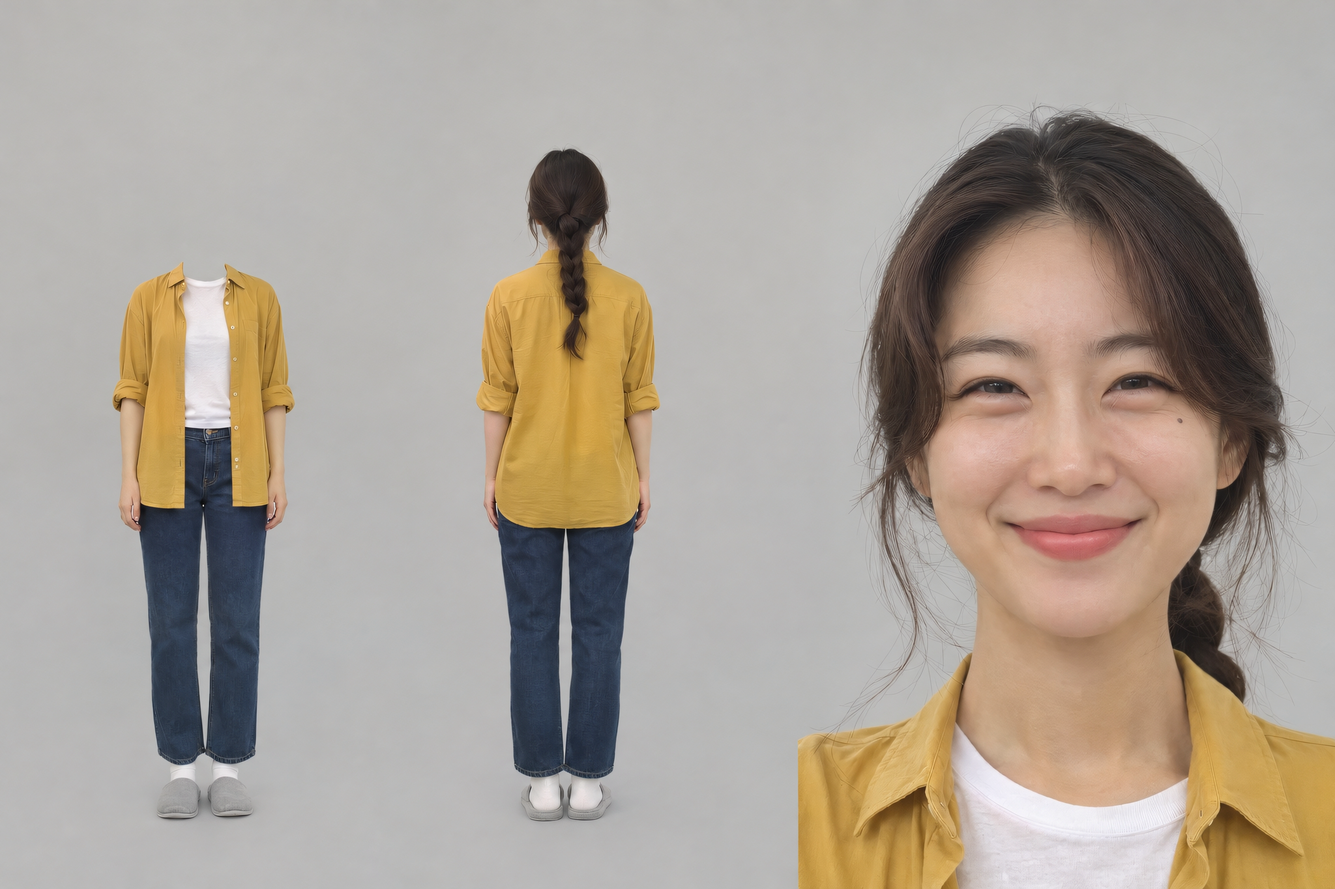
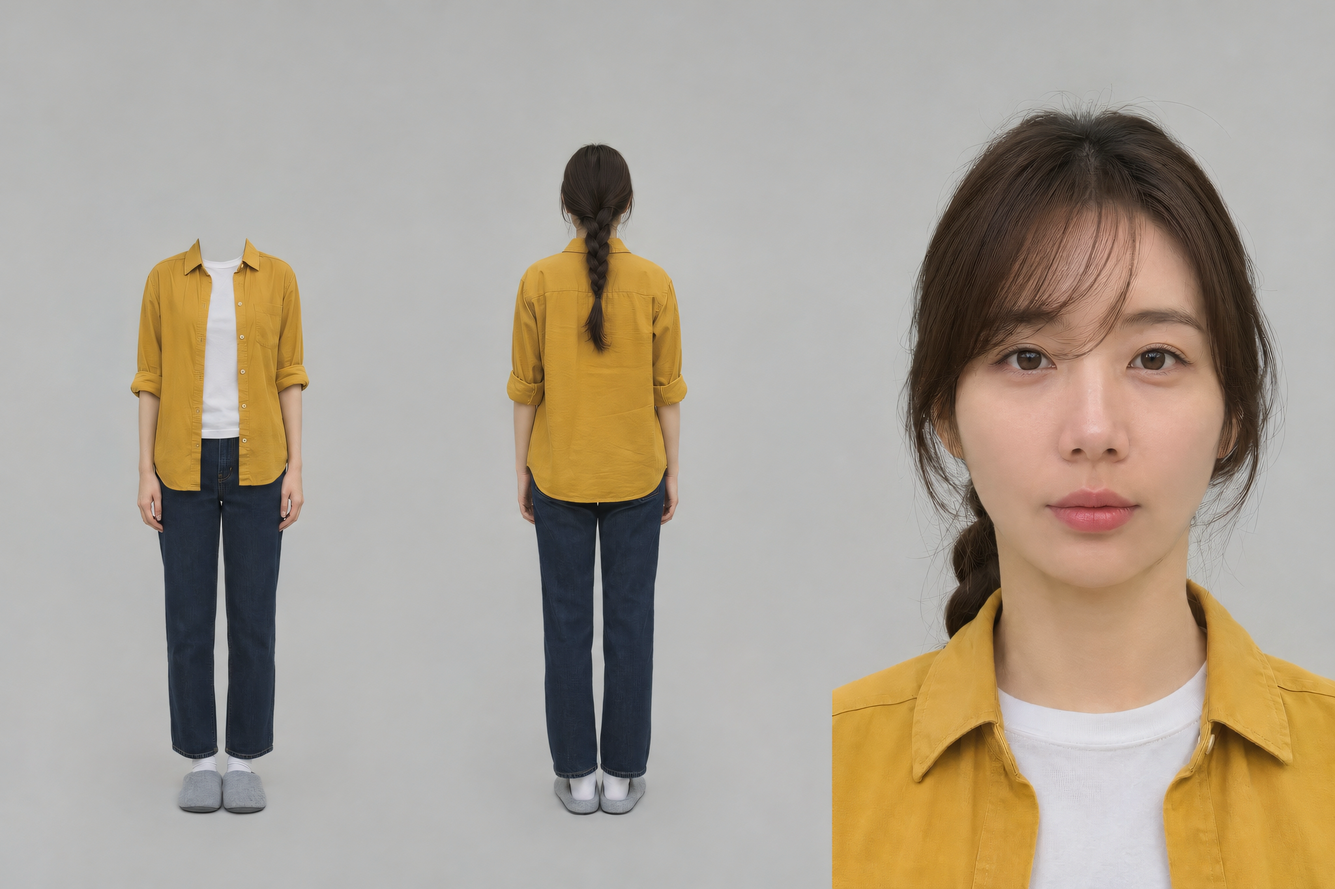
템플릿 시험 — 참기름 인물 앵커 다시(무표정·점 없음)

Changed region(s): [[0.5938, 0.1231, 1.0, 1.0], [0.3438, 0.1538, 0.5312, 0.9231], [0.0625, 0.2769, 0.25, 0.9231]]

diff --git a/admin.html b/admin.html
@@ -9,7 +9,7 @@
 <link rel="preconnect" href="https://fonts.gstatic.com" crossorigin>
 <link rel="stylesheet" href="https://fonts.googleapis.com/css2?family=Gothic+A1:wght@400;500;700;800&family=JetBrains+Mono:wght@400;500;700&display=swap">
 <link rel="stylesheet" href="style.css?v=1f228d76">
-<link rel="stylesheet" href="stage-render.css?v=needs-261116-v605">
+<link rel="stylesheet" href="stage-render.css?v=needs-261116-v606">
 <style>
 /* 관리자 화면 — 훑고 조작하는 곳이라 정보 밀도를 우선한다 */
 
@@ -697,7 +697,7 @@ details.flow-step:has(details.lc-direct[open]) .post-work{display:none}
 .o2-brief :disabled{color:#9a9a9a;background:#f1f1f1;border-color:#dcdcdc;cursor:not-allowed}.o2-brief button:disabled{opacity:.55}
 .o2-redo{margin-top:10px}.o2-redo summary{cursor:pointer;font-size:13px}.o2-redo textarea{width:100%;margin:6px 0}
 </style>
-<link rel="stylesheet" href="studio.css?v=3"><script defer src="studio-shell.js?v=needs-261116-v605"></script>
+<link rel="stylesheet" href="studio.css?v=3"><script defer src="studio-shell.js?v=needs-261116-v606"></script>
 <link rel="stylesheet" href="brand.css?v=red1"><link rel="stylesheet" href="skin-v2.css?v=13"><link rel="stylesheet" href="assets/css/onecue-app-v11.css?v=1"></head>
 <body class="admin-wide">
 
@@ -759,12 +759,12 @@ details.flow-step:has(details.lc-direct[open]) .post-work{display:none}
 <script src="asset-access.js?v=retry260923"></script>
 <!-- 폼 계약은 stage-executor.js 보다 먼저 온다. 계약이 없으면 검사가 닫히는 쪽으로 실패한다 -->
 <script src="stage-form-contract.js?v=contract-260921-v3"></script>
-<script src="stage-executor.js?v=needs-261116-v605"></script>
-<script src="credit-rates.js?v=needs-261116-v605"></script>
-<script src="ad-type-materials.js?v=needs-261116-v605"></script>
-<script src="material-gaps.js?v=needs-261116-v605"></script>
+<script src="stage-executor.js?v=needs-261116-v606"></script>
+<script src="credit-rates.js?v=needs-261116-v606"></script>
+<script src="ad-type-materials.js?v=needs-261116-v606"></script>
+<script src="material-gaps.js?v=needs-261116-v606"></script>
 <script src="shared-stage-renderers.js?v=stage-read-260926-v18"></script>
-<script src="admin.js?v=needs-261116-v605"></script>
+<script src="admin.js?v=needs-261116-v606"></script>
 <script>
 /* 09-28 — 폰이 예전 화면 코드를 붙들고 있었다(물리는 준비물 6장 · PC 는 4장). 열 때·화면으로 돌아올 때 배포 버전과 비교해 다르면 새 주소로 다시 연다 */
 (function () {

diff --git a/studio.html b/studio.html
@@ -1,4 +1,4 @@
-<!doctype html><html lang="ko" data-theme="light"><head><meta charset="utf-8"><meta name="viewport" content="width=device-width,initial-scale=1"><meta name="description" content="ONECUE 광고 제작 스튜디오"><title>ONECUE · 광고 제작 스튜디오</title><script>if(/(?:^|&)type=recovery(?:&|$)/.test(location.hash.slice(1)))location.replace('login.html?mode=recovery'+location.hash);</script><link rel="stylesheet" href="style.css"><link rel="stylesheet" href="studio.css?v=2"><script defer src="studio-shell.js?v=needs-261116-v605"></script><link rel="stylesheet" href="brand.css?v=red1"><link rel="stylesheet" href="skin-v2.css?v=13"><link rel="stylesheet" href="assets/css/onecue-app-v11.css?v=1"></head><body class="studio-home">
+<!doctype html><html lang="ko" data-theme="light"><head><meta charset="utf-8"><meta name="viewport" content="width=device-width,initial-scale=1"><meta name="description" content="ONECUE 광고 제작 스튜디오"><title>ONECUE · 광고 제작 스튜디오</title><script>if(/(?:^|&)type=recovery(?:&|$)/.test(location.hash.slice(1)))location.replace('login.html?mode=recovery'+location.hash);</script><link rel="stylesheet" href="style.css"><link rel="stylesheet" href="studio.css?v=2"><script defer src="studio-shell.js?v=needs-261116-v606"></script><link rel="stylesheet" href="brand.css?v=red1"><link rel="stylesheet" href="skin-v2.css?v=13"><link rel="stylesheet" href="assets/css/onecue-app-v11.css?v=1"></head><body class="studio-home">
 <div class="topbar"><div class="topbar-in"><a class="mark" href="studio.html">프로젝트</a><div class="spacer"></div><span class="pill" id="conn">연결 확인 중</span><span class="acct" id="acct"></span></div></div>
 <main><div class="studio-heading"><div><div class="studio-eyebrow">YOUR CREATIVE WORKSPACE</div><h1>ONECUE 스튜디오</h1><p id="greeting">다음 이야기를 시작할 시간.</p></div><a class="btn" href="new3.html">＋ 새 프로젝트</a></div>
 <div class="studio-stats"><div><span>전체 프로젝트</span><strong id="total">—</strong></div><div><span>제작 진행</span><strong id="working">—</strong></div><div><span>확인하실 차례</span><strong id="waiting">—</strong></div><div><span>납품 완료</span><strong id="finished">—</strong></div></div>

diff --git a/studio-v1.html b/studio-v1.html
@@ -1,4 +1,4 @@
-<!doctype html><html lang="ko" data-theme="light"><head><meta charset="utf-8"><meta name="robots" content="noindex"><meta name="viewport" content="width=device-width,initial-scale=1"><meta name="description" content="ONECUE 광고 제작 스튜디오"><title>ONECUE · 광고 제작 스튜디오</title><script>if(/(?:^|&)type=recovery(?:&|$)/.test(location.hash.slice(1)))location.replace('login.html?mode=recovery'+location.hash);</script><link rel="stylesheet" href="style.css"><link rel="stylesheet" href="studio.css?v=2"><script defer src="studio-shell.js?v=needs-261116-v605"></script><link rel="stylesheet" href="brand.css?v=red1"></head><body class="studio-home">
+<!doctype html><html lang="ko" data-theme="light"><head><meta charset="utf-8"><meta name="robots" content="noindex"><meta name="viewport" content="width=device-width,initial-scale=1"><meta name="description" content="ONECUE 광고 제작 스튜디오"><title>ONECUE · 광고 제작 스튜디오</title><script>if(/(?:^|&)type=recovery(?:&|$)/.test(location.hash.slice(1)))location.replace('login.html?mode=recovery'+location.hash);</script><link rel="stylesheet" href="style.css"><link rel="stylesheet" href="studio.css?v=2"><script defer src="studio-shell.js?v=needs-261116-v606"></script><link rel="stylesheet" href="brand.css?v=red1"></head><body class="studio-home">
 <div class="topbar"><div class="topbar-in"><a class="mark" href="studio.html">프로젝트</a><div class="spacer"></div><span class="pill" id="conn">연결 확인 중</span><span class="acct" id="acct"></span></div></div>
 <main><div class="studio-heading"><div><div class="studio-eyebrow">YOUR CREATIVE WORKSPACE</div><h1>ONECUE 스튜디오</h1><p id="greeting">다음 이야기를 시작할 시간.</p></div><a class="btn" href="new.html">＋ 새 프로젝트</a></div>
 <div class="studio-stats"><div><span>전체 프로젝트</span><strong id="total">—</strong></div><div><span>제작 진행</span><strong id="working">—</strong></div><div><span>확인하실 차례</span><strong id="waiting">—</strong></div><div><span>납품 완료</span><strong id="finished">—</strong></div></div>

diff --git a/new.html b/new.html
@@ -104,7 +104,7 @@ input[type=file]:focus{outline:2px solid var(--cue);outline-offset:1px}
 .style-card:has(input:checked){border-color:var(--cue);box-shadow:0 0 0 2px var(--cue)}
 .style-card:has(input:focus-visible){outline:2px solid var(--cue);outline-offset:2px}
 </style>
-<link rel="stylesheet" href="studio.css?v=2"><script defer src="studio-shell.js?v=needs-261116-v605"></script>
+<link rel="stylesheet" href="studio.css?v=2"><script defer src="studio-shell.js?v=needs-261116-v606"></script>
 <link rel="stylesheet" href="brand.css?v=red1"><link rel="stylesheet" href="skin-v2.css?v=13"></head>
 <body>
 
@@ -359,6 +359,6 @@ input[type=file]:focus{outline:2px solid var(--cue);outline-offset:1px}
 <script src="https://cdn.jsdelivr.net/npm/@supabase/supabase-js@2"></script>
 <script src="config.js?v=d4d97baa"></script>
 <script src="auth.js?v=fa839557"></script>
-<script src="new.js?v=needs-261116-v605"></script>
+<script src="new.js?v=needs-261116-v606"></script>
 </body>
 </html>

diff --git a/desk.html b/desk.html
@@ -6,7 +6,7 @@
 <title>제작 관리 — ONECUE</title>
 <meta name="robots" content="noindex,nofollow">
 <link rel="stylesheet" href="style.css?v=1f228d76">
-<link rel="stylesheet" href="studio.css?v=3"><script defer src="studio-shell.js?v=needs-261116-v605"></script>
+<link rel="stylesheet" href="studio.css?v=3"><script defer src="studio-shell.js?v=needs-261116-v606"></script>
 <link rel="stylesheet" href="brand.css?v=red1"><link rel="stylesheet" href="skin-v2.css?v=13"><link rel="stylesheet" href="assets/css/onecue-app-v11.css?v=1">
 <style>
 /* 제작 관리 — 옵션 3 새 의뢰만 (Dan 10-14 「예전 것과 아예 분리」). 옛 건은 제작 관리 · old(admin.html) */
@@ -120,6 +120,6 @@
 <script src="https://cdn.jsdelivr.net/npm/@supabase/supabase-js@2"></script>
 <script src="config.js?v=o3b"></script>
 <script src="auth.js?v=o3b"></script>
-<script src="desk.js?v=needs-261116-v605"></script>
+<script src="desk.js?v=needs-261116-v606"></script>
 </body>
 </html>

diff --git a/new3.html b/new3.html
@@ -6,7 +6,7 @@
 <title>새 프로젝트 — ONECUE</title>
 <meta name="robots" content="noindex,nofollow">
 <link rel="stylesheet" href="style.css?v=1f228d76">
-<link rel="stylesheet" href="studio.css?v=2"><script defer src="studio-shell.js?v=needs-261116-v605"></script>
+<link rel="stylesheet" href="studio.css?v=2"><script defer src="studio-shell.js?v=needs-261116-v606"></script>
 <link rel="stylesheet" href="brand.css?v=red1"><link rel="stylesheet" href="skin-v2.css?v=13">
 <style>
 /* 옵션 3 새 의뢰 — 6단계 (Dan 10-14 · 옵션 3 UI 기획 V2)
@@ -472,6 +472,6 @@ html,body,body.studio-layout{background:var(--ground)!important;color:var(--ink)
 <script src="https://cdn.jsdelivr.net/npm/@supabase/supabase-js@2"></script>
 <script src="config.js?v=o3a"></script>
 <script src="auth.js?v=fa839557"></script>
-<script src="new3.js?v=needs-261116-v605"></script>
+<script src="new3.js?v=needs-261116-v606"></script>
 </body>
 </html>

diff --git a/new-v1.html b/new-v1.html
@@ -104,7 +104,7 @@ input[type=file]:focus{outline:2px solid var(--cue);outline-offset:1px}
 .style-card:has(input:checked){border-color:var(--cue);box-shadow:0 0 0 2px var(--cue)}
 .style-card:has(input:focus-visible){outline:2px solid var(--cue);outline-offset:2px}
 </style>
-<link rel="stylesheet" href="studio.css?v=2"><script defer src="studio-shell.js?v=needs-261116-v605"></script>
+<link rel="stylesheet" href="studio.css?v=2"><script defer src="studio-shell.js?v=needs-261116-v606"></script>
 <link rel="stylesheet" href="brand.css?v=red1"></head>
 <body>
 
@@ -359,6 +359,6 @@ input[type=file]:focus{outline:2px solid var(--cue);outline-offset:1px}
 <script src="https://cdn.jsdelivr.net/npm/@supabase/supabase-js@2"></script>
 <script src="config.js?v=d4d97baa"></script>
 <script src="auth.js?v=fa839557"></script>
-<script src="new.js?v=needs-261116-v605"></script>
+<script src="new.js?v=needs-261116-v606"></script>
 </body>
 </html>

diff --git a/project.html b/project.html
@@ -72,7 +72,7 @@ h2 #editBrief{margin-left:auto}
 .style-fold .styles{margin-top:10px}
 .style-fold .style-now{display:flex;flex-wrap:wrap;align-items:flex-end;gap:12px;margin:10px 0 2px}.style-fold .style-now img{width:min(220px,60vw);aspect-ratio:3/4;height:auto;object-fit:cover;border-radius:8px;border:1px solid var(--rule)}.style-fold .style-now span{color:var(--muted);font-size:13px;line-height:1.5}
 </style>
-<link rel="stylesheet" href="studio.css?v=3"><script defer src="studio-shell.js?v=needs-261116-v605"></script>
+<link rel="stylesheet" href="studio.css?v=3"><script defer src="studio-shell.js?v=needs-261116-v606"></script>
 <link rel="stylesheet" href="brand.css?v=red1"><link rel="stylesheet" href="skin-v2.css?v=13"><style id="onecue-client-v11">
 /* task144: page-local v1.1 palette; shared styles stay read-only. */
 :root,:root[data-theme=light],:root[data-theme=dark]{

diff --git a/results-v1.html b/results-v1.html
@@ -2,4 +2,4 @@
 <header><a class="brand" href="admin.html" id="back">ONECUE<span>.</span></a><span class="head-label">ADMIN / PRODUCTION ARCHIVE</span><button id="reload">새로고침</button></header>
 <main><div class="heading"><div><small>OUR WORK, OUR LEARNING</small><h1>제작 결과물</h1><p id="status" role="status">목록을 확인하고 있습니다.</p></div><label>검색<input id="search" placeholder="작품명 또는 번호" type="search"></label></div>
 <div id="rows" class="work-rows"></div></main>
-<script src="studio-shell.js?v=needs-261116-v605"></script><script src="results.js?v=rows1"></script></body></html>
+<script src="studio-shell.js?v=needs-261116-v606"></script><script src="results.js?v=rows1"></script></body></html>

diff --git a/results.html b/results.html
@@ -2,4 +2,4 @@
 <header><a class="brand" href="admin.html" id="back">ONECUE<span>.</span></a><span class="head-label">ADMIN / PRODUCTION ARCHIVE</span><button id="reload">새로고침</button></header>
 <main><div class="heading"><div><small>OUR WORK, OUR LEARNING</small><h1>제작 결과물</h1><p id="status" role="status">목록을 확인하고 있습니다.</p></div><label>검색<input id="search" placeholder="작품명 또는 번호" type="search"></label></div>
 <div id="rows" class="work-rows"></div></main>
-<script src="studio-shell.js?v=needs-261116-v605"></script><script src="results.js?v=rows1"></script></body></html>
+<script src="studio-shell.js?v=needs-261116-v606"></script><script src="results.js?v=rows1"></script></body></html>

diff --git a/project-v1.html b/project-v1.html
@@ -72,7 +72,7 @@ h2 #editBrief{margin-left:auto}
 .style-fold .styles{margin-top:10px}
 .style-fold .style-now{display:flex;flex-wrap:wrap;align-items:flex-end;gap:12px;margin:10px 0 2px}.style-fold .style-now img{width:min(220px,60vw);aspect-ratio:3/4;height:auto;object-fit:cover;border-radius:8px;border:1px solid var(--rule)}.style-fold .style-now span{color:var(--muted);font-size:13px;line-height:1.5}
 </style>
-<link rel="stylesheet" href="studio.css?v=3"><script defer src="studio-shell.js?v=needs-261116-v605"></script>
+<link rel="stylesheet" href="studio.css?v=3"><script defer src="studio-shell.js?v=needs-261116-v606"></script>
 <link rel="stylesheet" href="brand.css?v=red1"></head>
 <body>
 

diff --git a/admin-v1.html b/admin-v1.html
@@ -697,7 +697,7 @@ details.flow-step:has(details.lc-direct[open]) .post-work{display:none}
 .o2-brief :disabled{color:#9a9a9a;background:#f1f1f1;border-color:#dcdcdc;cursor:not-allowed}.o2-brief button:disabled{opacity:.55}
 .o2-redo{margin-top:10px}.o2-redo summary{cursor:pointer;font-size:13px}.o2-redo textarea{width:100%;margin:6px 0}
 </style>
-<link rel="stylesheet" href="studio.css?v=3"><script defer src="studio-shell.js?v=needs-261116-v605"></script>
+<link rel="stylesheet" href="studio.css?v=3"><script defer src="studio-shell.js?v=needs-261116-v606"></script>
 <link rel="stylesheet" href="brand.css?v=red1"></head>
 <body class="admin-wide">
 
